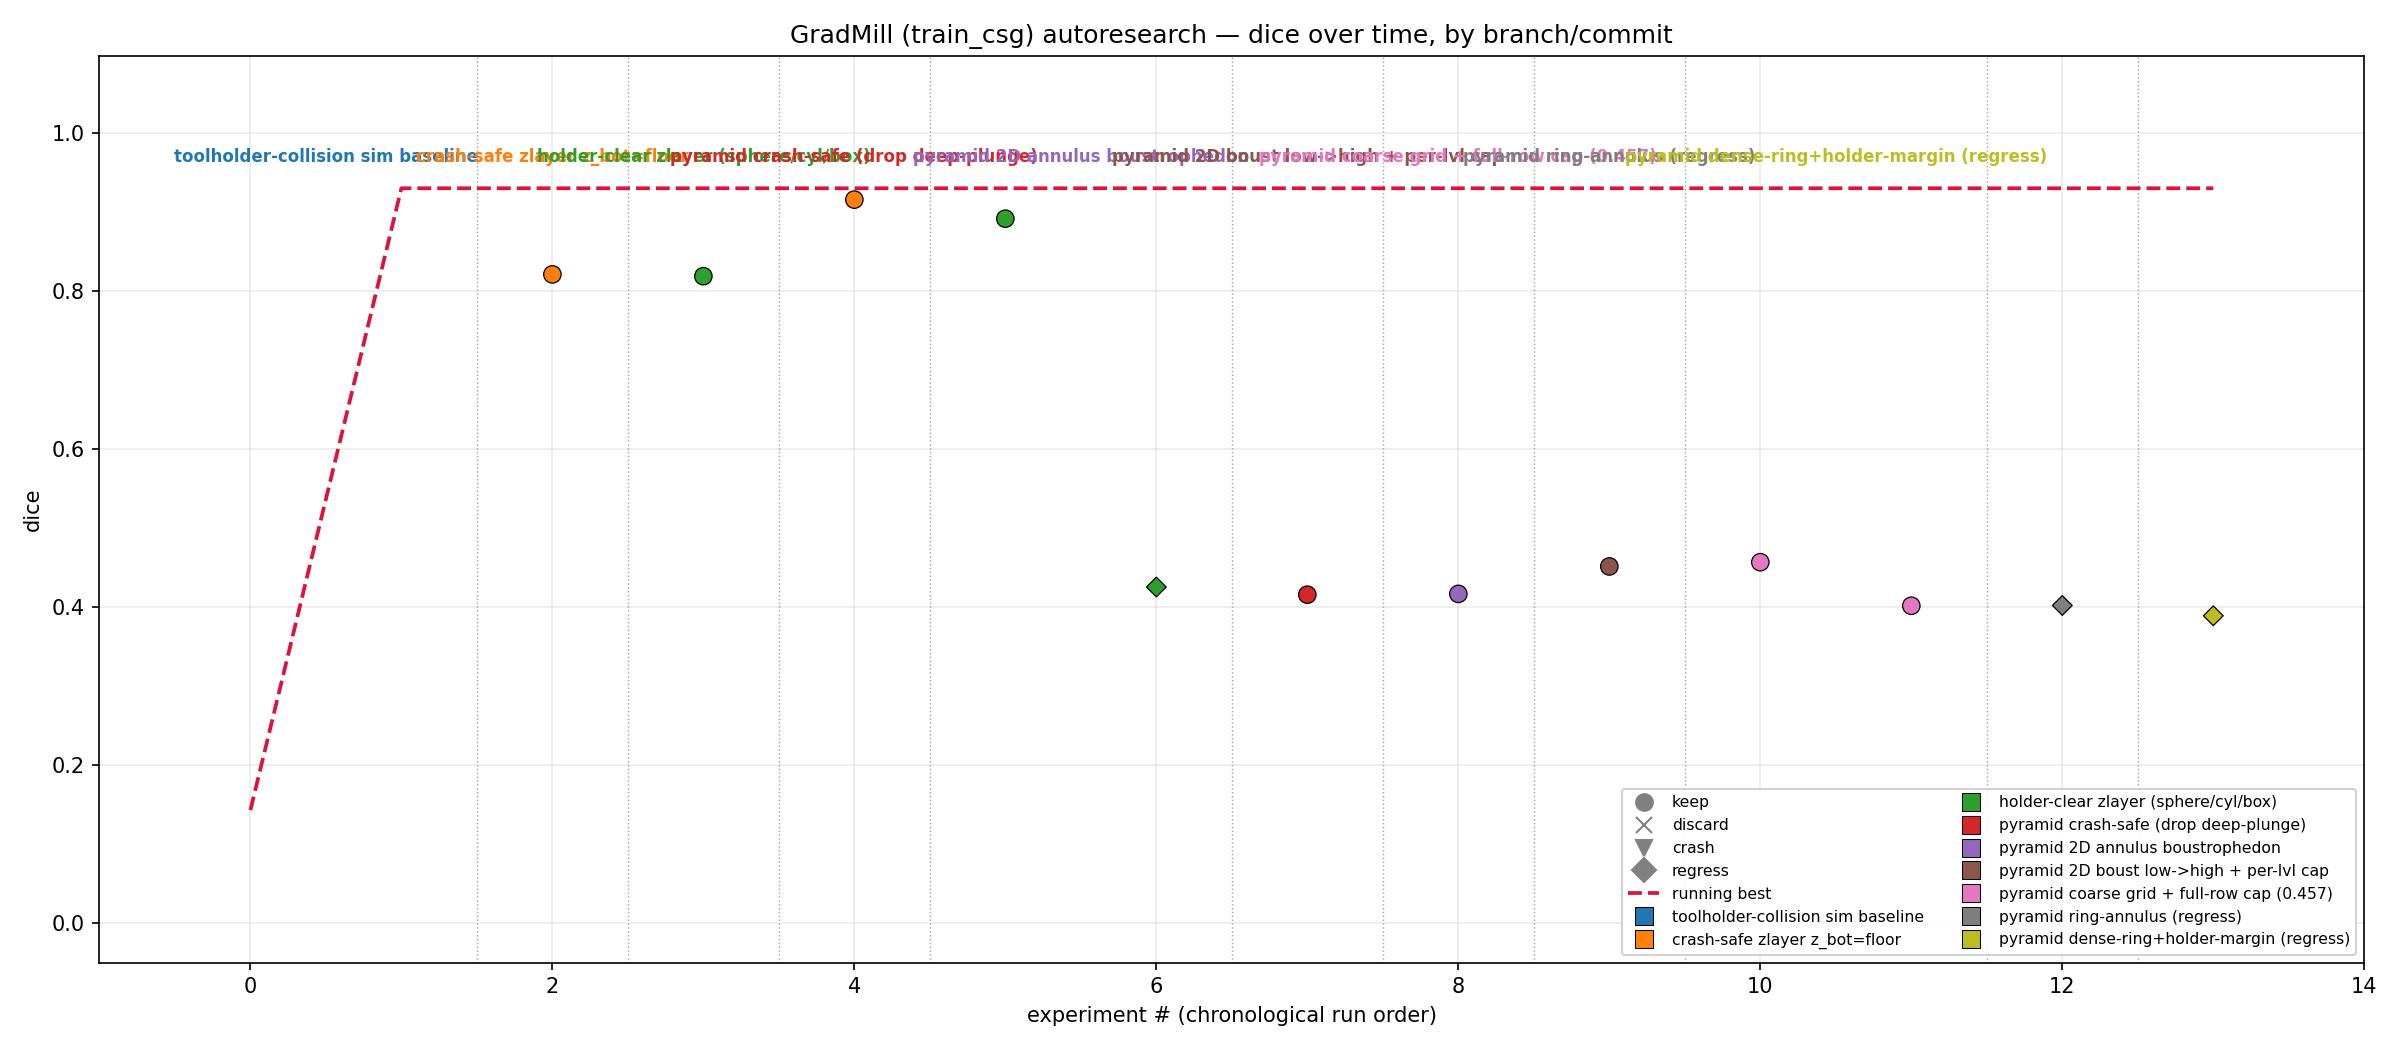
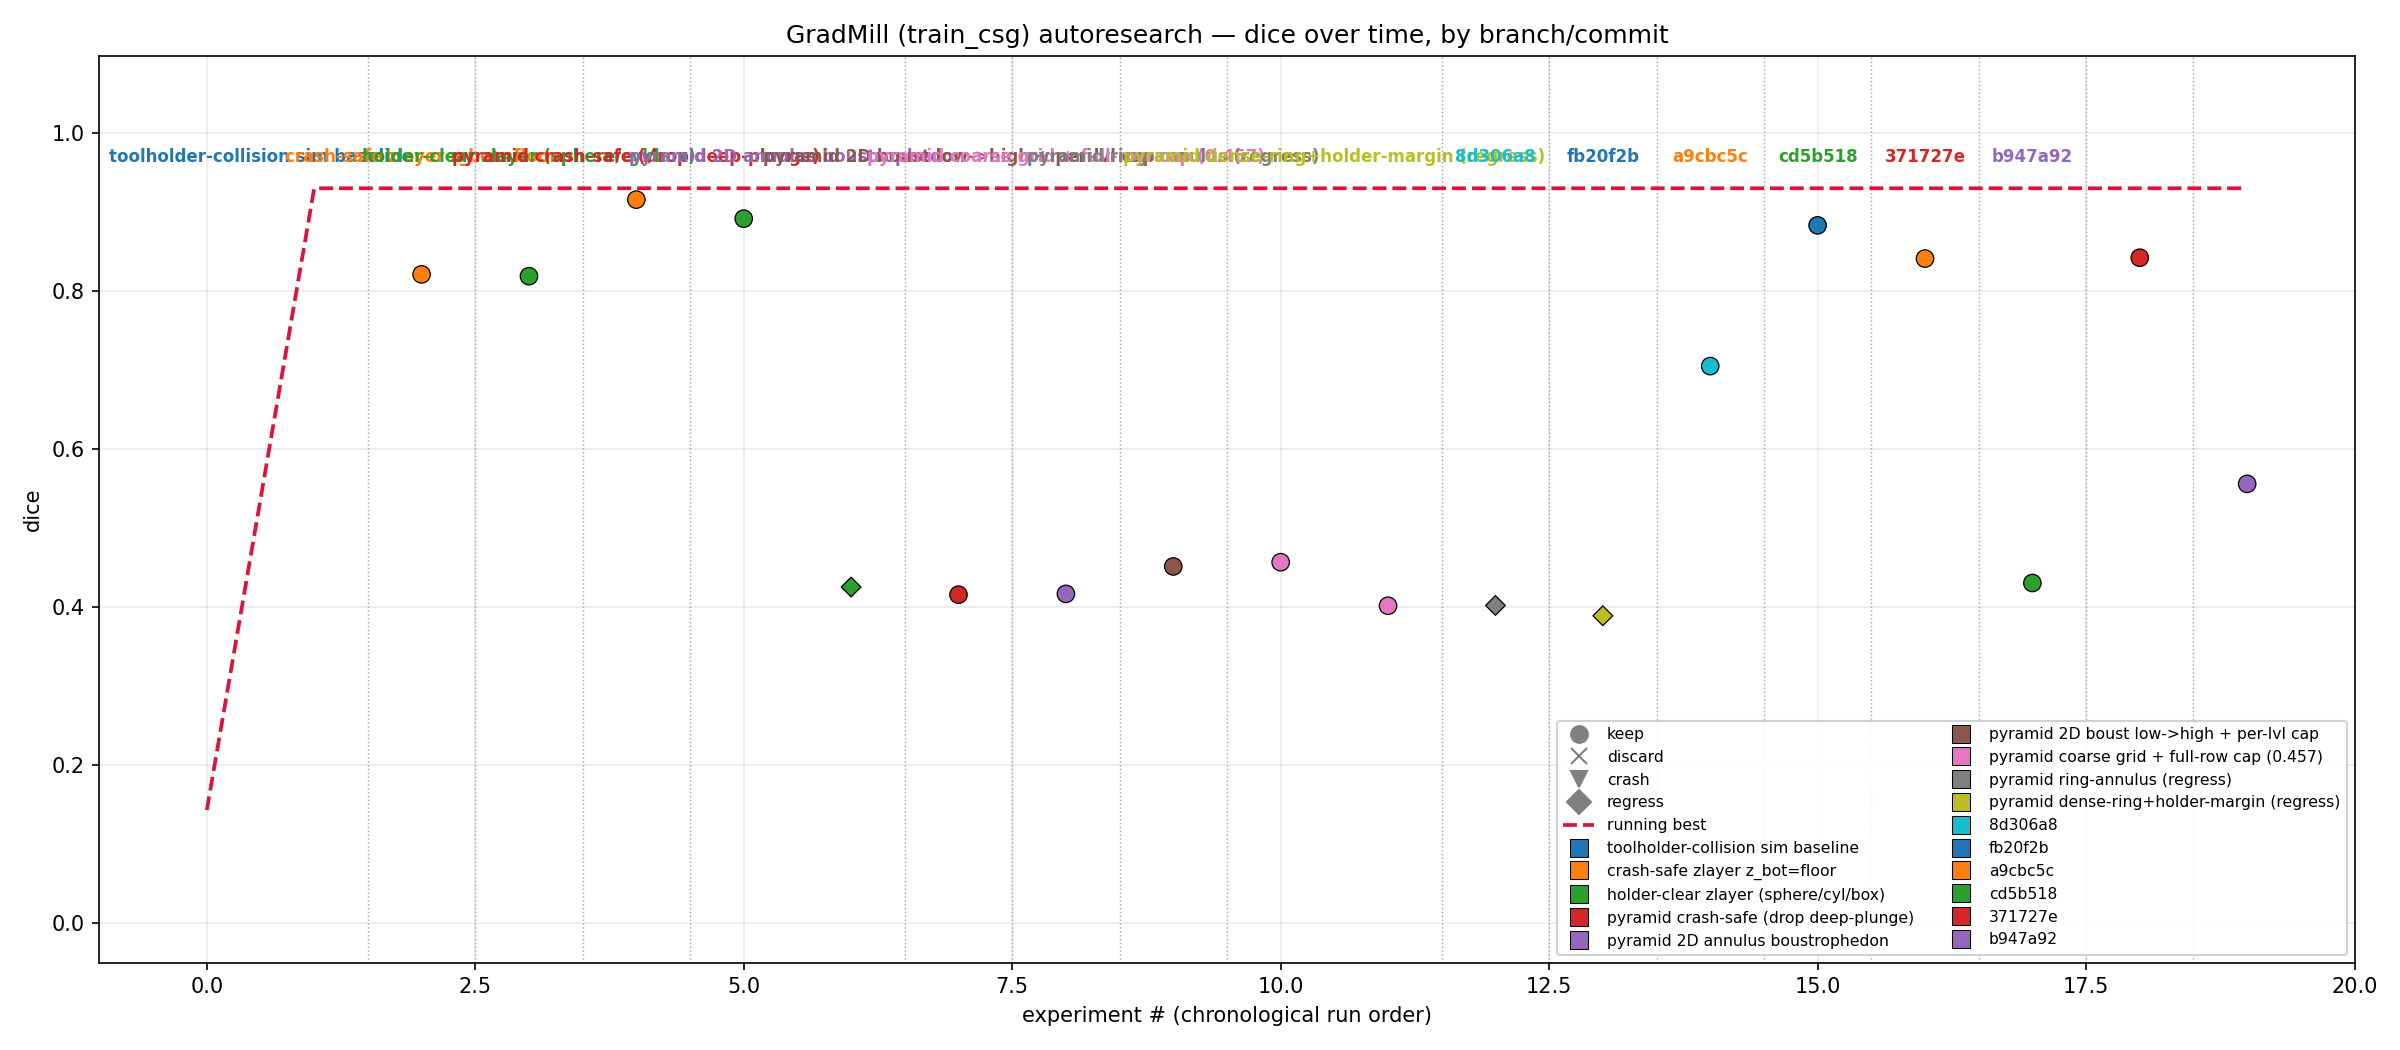
findings: revise pyramid ceiling framing (tool-to-stock-ratio limited, not structural)

diff --git a/autoresearch/tasks/train_csg/findings.md b/autoresearch/tasks/train_csg/findings.md
@@ -13,13 +13,17 @@ deployed metric. Tracked alongside the train-summary HARD dice (pre-trunc).
 The prior zlayer wins **do not survive** collision safety unchanged. Three
 shapes (sphere/cyl/box) re-baseline close to their old numbers once the init is
 made crash-aware (orbits stay above the part, so the z-floor barely bites).
-**Pyramid regresses hard** (0.817 → ~0.46): its old win relied on a deep
+**Pyramid regresses hard** (0.817 → ~0.46 at 1in): its old win relied on a deep
 tool-base plunge that is now (correctly) forbidden — that plunge was a real
-machine crash. The crash-safe pyramid ceiling is **structural**, not a coverage
-bug (confirmed below). Crash-safe pyramid improved 0.416 → 0.457 via a 2D
-descending-annulus boustrophedon (replacing the measure-zero 1D orbit), and
-optimization HELPS the pyramid (pure-init 0.402 → 25-iter 0.457, best@iter15),
-unlike sphere/cyl/box where init=iter0 is best.
+machine crash. The crash-safe ceilings (sphere lower-interior wedge, pyramid
+sloped-face inner band) are **reachability ceilings set by the fixed 25mm tool
+vs the stock height** — not purely geometric. They are **monotonic in stock
+size**: both sphere (0.843/0.819/0.705) and pyramid (0.556/0.457/0.431) rise at
+0.75in (tool taller than stock → more interior reachable) and fall at 1.5in.
+Crash-safe pyramid improved 0.416 → 0.457 via a 2D descending-annulus
+boustrophedon. Optimization HELPS the 1in pyramid (0.402 → 0.457, best@iter15)
+but hurts the 0.75in pyramid (best@iter0, like the sphere) — the init is strong
+enough at 0.75in that opt collapses it.
 
 ## Crash-safe per-shape results (viz carve Dice, post-trunc)
 
@@ -61,6 +65,15 @@ the 19mm stock (z-floor dips below the part bottom, -0.0025), so the
 lower-interior wedge becomes partially reachable → dice rises above the 1in
 ceiling. Larger stock → tool spans less → more interior unreachable.
 
+The **pyramid follows the same monotonic trend**: 0.556 / 0.457 / 0.431 at
+0.75in / 1in / 1.5in. This **revises the earlier "structural/geometric ceiling"
+framing** — the pyramid ceiling is *not* purely geometric; it is tool-to-stock-
+ratio limited, same driver as the sphere. At 0.75in (tool taller than stock) the
+sloped-face inner band becomes partially reachable and best@iter0 returns
+(init=win, like the sphere), whereas at 1in the init is marginal so optimization
+helps (best@iter15). The crash-safe ceilings are fundamentally reachability
+ceilings set by the fixed 25mm tool vs the stock height.
+
 ## What changed in the sim (recap)
 
 - **Z-floor clamp** (`--z-floor-epsilon-mm`, default 1.0mm): executed tool BASE
@@ -85,7 +98,7 @@ constraints (in `algorithms/train_csg.py`):
 For sphere/cyl/box the `else`-branch `z_bot = max(z_bot, z_floor+0.005,
 z_holder_clear)` suffices — the equator orbit stays above the floor.
 
-## Pyramid: why ~0.42 is the crash-safe ceiling (NOT a coverage bug)
+## Pyramid: why ~0.46 is the 1in crash-safe ceiling (reachability, not coverage)
 
 The pyramid's old 0.8166 used a **below-disk boustrophedon at fixed
 `z_base_below = base_z - 1 - margin ≈ -0.955`** — a deep plunge placing the
@@ -119,8 +132,12 @@ the pyramid half-size `hp(zb) ≥ hp(z)`, so a tool at radius `hp(z)+r_tool` wou
 The only crash-free radius at base `zb` is `≥ hp(zb)+r_tool+margin`, which at
 height z leaves the inner band `[hp(z), hp(zb)+r_tool]` un-carvable. A
 full-height tool cannot hug a sloped face without the deep plunge. This mirrors
-the sphere's lower-interior wedge — a fundamental crash-safe ceiling, not a
-tuning problem.
+the sphere's lower-interior wedge. **However, this ceiling is tool-to-stock-
+ratio dependent, not absolute**: at 0.75in (tool 25mm taller than the 19mm
+stock) the inner band becomes partially reachable and the pyramid rises to
+0.556 (see Size robustness). At 1.5in it falls to 0.431. The "fundamental
+ceiling" holds for a FIXED tool/stock ratio; a relatively taller tool (or
+articulated holder) lifts it.
 
 ## Dead levers confirmed / added
 
@@ -145,9 +162,11 @@ tuning problem.
 
 - The viz "carved voxels: sim=N" line is the **remaining solid** count
   (`stock<0`), not removed — read accordingly.
-- Pyramid best-checkpoint is at **iter 15** (NOT iter-0): optimization HELPS the
-  pyramid (0.33 → 0.42), unlike sphere/cyl/box where init=iter0 is best and soft
-  opt collapses it. The pyramid soft loss is partially correlated with hard dice.
+- Pyramid best-checkpoint is at **iter 15** at 1in (optimization HELPS: 0.33 →
+  0.46), but at **iter 0** at 0.75in (init strong enough that opt collapses it,
+  like the sphere). The opt-helps pattern is a symptom of a marginal init, not a
+  pyramid invariant — when reachability improves (smaller stock) the init
+  dominates and opt hurts.
 - Crash-safe pyramid `holder_overlap=0`, trunc no-trim (min clearance 21mm) —
   the path is genuinely collision-free; the loss is purely the unreachable waste.
 - **Training-barrier vs trunc-threshold mismatch**: the holder collision barrier
@@ -163,7 +182,12 @@ tuning problem.
 
 - A **shorter tool** is worse (less reach). A **longer tool** reaches deeper but
   gouges (full-height carve through the body). No tool_height recovers the slab
-  crash-free.
-- The pyramid crash-safe ceiling (~0.42) is accepted as structural. Recovering
-  ≥0.8 would require either a non-full-height tool model (scenario change) or
-  an articulated holder — out of scope for this sim.
+  crash-free at a fixed stock size.
+- The crash-safe ceilings are **tool-to-stock-ratio limited**, not absolute: the
+  pyramid rises 0.431→0.457→0.556 and the sphere 0.705→0.819→0.843 as the stock
+  shrinks 1.5→1→0.75in (tool 25mm fixed). Recovering ≥0.8 crash-free at 1in would
+  require a relatively taller tool (scenario change) or an articulated holder —
+  out of scope for this sim.
+- The `holder_margin` soft barrier (weight 50) is overpowered by the residual
+  loss; a higher weight or a hard holder clamp (analogous to the z-floor) would
+  let face-hugging low-zb inits survive trunc — untested.
